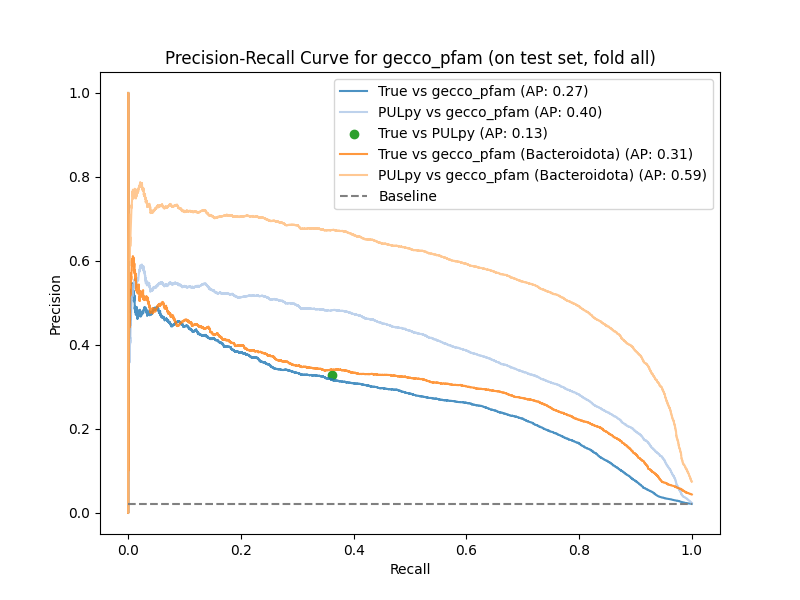
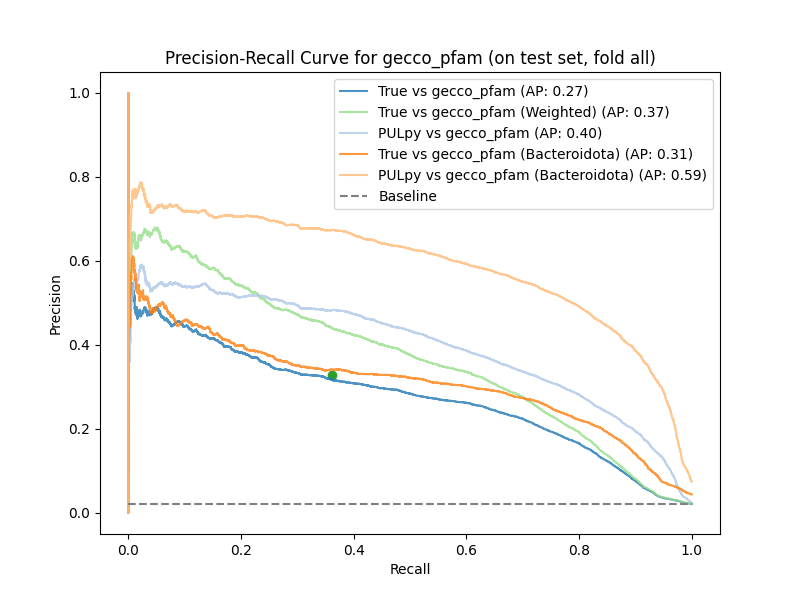
add weighted curve to plots

diff --git a/src/scripts/evaluate_predictions.py b/src/scripts/evaluate_predictions.py
@@ -15,17 +15,25 @@ class PredictionEvaluator:
     Currently aggregates predictions across all folds.
     """
 
-    def __init__(self, labeled_results_path, clusters_table_path, pulpy_annotations_path, k, model_name, split, output_path):
+    def __init__(self, labeled_results_path, 
+                clusters_table_path, 
+                pulpy_annotations_path,
+                cblaster_annotations_path, 
+                k, model_name, split, output_path):
+
         self.model_name = model_name
         self.split = split
         self.output_path = output_path
+        self.labeled_results_raw = []
         self.labeled_results = []
 
         for i in range(k):
             labeled_results = polars.read_csv(f"{labeled_results_path}_{i}.tsv", separator='\t')
             self.labeled_results.append(labeled_results)
+            self.labeled_results_raw.append(labeled_results) # keep a copy of the raw results before joining with annotations
 
         self.get_pulpy_annotations(pulpy_annotations_path)
+        self.get_cblaster_annotations(cblaster_annotations_path)
         self.clusters_table = polars.read_csv(clusters_table_path, separator='\t', infer_schema_length=600)
         self.filter = None
 
@@ -35,7 +43,17 @@ class PredictionEvaluator:
         self.pred = self.labeled_results[fold].select(polars.col("is_PUL_pred")).fill_null(False).to_series().to_list()
         self.p_pred = self.labeled_results[fold].select(polars.col("average_p")).fill_null(0.0).to_series().to_list()
         self.pulpy_pred = self.labeled_results[fold].select(polars.col("is_PUL_pulpy")).fill_null(False).to_series().to_list()
-
+        # weight down genes with PULpy or cblaster annotations but no experimental data (likely cryptic puls)
+        self.sample_weights = (
+            self.labeled_results[fold]
+            .with_columns(
+                polars.when(((polars.col("is_PUL_pulpy") == True) | (polars.col("is_PUL_cblaster") == True)) & (polars.col("is_PUL") == False))
+                .then(0.01)
+                .otherwise(1.0)
+                .alias("sample_weight")
+            )
+            .select("sample_weight").to_series().to_list()
+        )
 
     def recompute_predictions(self, fold, threshold):
         self.labeled_results[fold] = self.labeled_results[fold].with_columns(
@@ -70,8 +88,23 @@ class PredictionEvaluator:
         for fold in range(len(self.labeled_results)):
             self.labeled_results[fold] = self.labeled_results[fold].join(
                 (
-                    join_gene_and_PUL_table(self.labeled_results[fold], pulpy_annotations)
+                    join_gene_and_PUL_table(self.labeled_results_raw[fold], pulpy_annotations)
                     .select("protein_id", "is_PUL", "cluster_id").rename({"is_PUL": "is_PUL_pulpy", "cluster_id": "cluster_id_pulpy"})
+                ),
+                on="protein_id",
+                how="left"
+            )
+
+    def get_cblaster_annotations(self, cblaster_annotations_path):
+        cblaster_annotations = (
+            polars.read_csv(cblaster_annotations_path, separator='\t')
+            .select("sequence_id", "start", "end")
+        )
+        for fold in range(len(self.labeled_results)):
+            self.labeled_results[fold] = self.labeled_results[fold].join(
+                (
+                    join_gene_and_PUL_table(self.labeled_results_raw[fold], cblaster_annotations)
+                    .select("protein_id", "is_PUL", "cluster_id").rename({"is_PUL": "is_PUL_cblaster", "cluster_id": "cluster_id_cblaster"})
                 ),
                 on="protein_id",
                 how="left"
@@ -123,13 +156,13 @@ class PredictionEvaluator:
         return mmc_scores[best_mmc_idx], best_threshold, (pr_mmc[1][1], pr_mmc[0][1])
 
 
-    def plot_pr(self, true, pred, label, color, ax, plot_mcc=False):
+    def plot_pr(self, true, pred, label, color, ax, plot_mcc=False, weights=None):
         if len(true) == 0 or len(pred) == 0:
             print(f"Warning: No data to plot for {label}. Skipping PR curve.")
             return
 
-        precision, recall, thresholds = precision_recall_curve(true, pred, drop_intermediate=True)
-        auc = average_precision_score(true, pred)
+        precision, recall, thresholds = precision_recall_curve(true, pred, drop_intermediate=True, sample_weight=weights)
+        auc = average_precision_score(true, pred, sample_weight=weights)
         ax.plot(recall, precision, label=label + " (AP: {:.2f})".format(auc), color=color, alpha=0.8)
 
         if plot_mcc:
@@ -139,14 +172,14 @@ class PredictionEvaluator:
             plt.scatter(pr_point[0], pr_point[1], label=f"Best MCC: {round(mcc, 2)}, threshold {round(threshold, 2)}", color=color, marker='X', s=100)
 
 
-    def plot_pr_dot(self, true, pred, label, color, ax):
+    def plot_pr_dot(self, true, pred, color, ax):
         if len(true) == 0 or len(pred) == 0:
-            print(f"Warning: No data to plot for {label}. Skipping PR curve.")
+            print(f"Warning: No data to plot. Skipping PR dot.")
             return
 
         precision, recall, thresholds = precision_recall_curve(true, pred, drop_intermediate=True)
         auc = average_precision_score(true, pred)
-        ax.scatter(recall[1], precision[1], label=label + " (AP: {:.2f})".format(auc), color=color)
+        ax.scatter(recall[1], precision[1], color=color)
 
 
     def precision_recall_curve(self, fold):
@@ -162,10 +195,12 @@ class PredictionEvaluator:
         colors = plt.cm.tab20.colors
 
         # for true vs pred
-        self.plot_pr(self.true, self.p_pred, "True vs " + self.model_name, colors[0], ax, plot_mcc=False)
+        self.plot_pr(self.true, self.p_pred, "True vs " + self.model_name, colors[0], ax)
+        if fold == "all":
+            self.plot_pr(self.true, self.p_pred, f"True vs {self.model_name} (Weighted)", colors[5], ax, weights=self.sample_weights)
         # for pulpy vs pred
         self.plot_pr(self.pulpy_pred, self.p_pred, "PULpy vs " + self.model_name, colors[1], ax)
-        self.plot_pr_dot(self.true, self.pulpy_pred, "True vs PULpy", colors[4], ax)
+        self.plot_pr_dot(self.true, self.pulpy_pred, colors[4], ax)
         baseline = sum(self.true) / len(self.true) if len(self.true) > 0 else 0
 
         # then filter by phylum and plot again
@@ -342,17 +377,18 @@ if __name__ == "__main__":
         f"{results_path}",
         "src/data/results/cblaster_results.tsv",
         "src/data/results/pulpy_annotations.tsv",
+        "src/data/results/cblaster_results_liberal.tsv",
         k=args.k,
         model_name=model_name,
         split=args.split,
         output_path=output_path
     )
 
-    evaluator.venn_diagram()
-    evaluator.f1_per_fold()
-    for fold in range(args.k):
-         evaluator.precision_recall_curve(fold)
-         evaluator.plot_roc_curves(fold)
+    # evaluator.venn_diagram()
+    # evaluator.f1_per_fold()
+    # for fold in range(args.k):
+    #      evaluator.precision_recall_curve(fold)
+    #      evaluator.plot_roc_curves(fold)
 
     if args.k == 7:
         # new evaluator class for aggregating 5 folds instead of 7
@@ -360,6 +396,7 @@ if __name__ == "__main__":
             f"{results_path}",
             "src/data/results/cblaster_results.tsv",
             "src/data/results/pulpy_annotations.tsv",
+            "src/data/results/cblaster_results_liberal.tsv",
             k=5,
             model_name=model_name,
             split=args.split,

diff --git a/src/scripts/logistic_regression.py b/src/scripts/logistic_regression.py
@@ -321,6 +321,7 @@ if __name__ == "__main__":
 
         genecat_results = pd.concat(output)
         genecat_results = polars.from_pandas(genecat_results)
+        rich.print(f"[bold blue]{'Saving test evaluation to':>12}[/] {args.output_dir}")
 
         # get all genes in test set
         test_clusters = polars.read_csv(f"src/data/splits/test_fold_{fold}.tsv", separator='\t')
@@ -329,7 +330,6 @@ if __name__ == "__main__":
         train_clusters = polars.read_csv(f"src/data/splits/train_fold_{fold}.tsv", separator='\t')
         save_results(train_clusters, genecat_results, genes, fold, split="train")
 
-        genecat_results.write_parquet(os.path.join(args.output_dir, f"linmodel_results_{args.model_name}_{fold}.parquet"))
-        rich.print(f"[bold blue]{'Saving test evaluation to':>12}[/] {args.output_dir}")
+#        genecat_results.write_csv(os.path.join(args.output_dir, f"linmodel_results_{args.model_name}_{fold}.tsv"), separator='\t')
 
 # python src/scripts/logistic_regression.py --input-df-file-path src/data/results/genecat/fold_data --output-dir src/data/results/genecat/zero_shot_results --model-name pfam --contig-col sequence_id --label-col label --norm-type l2 --normalize
